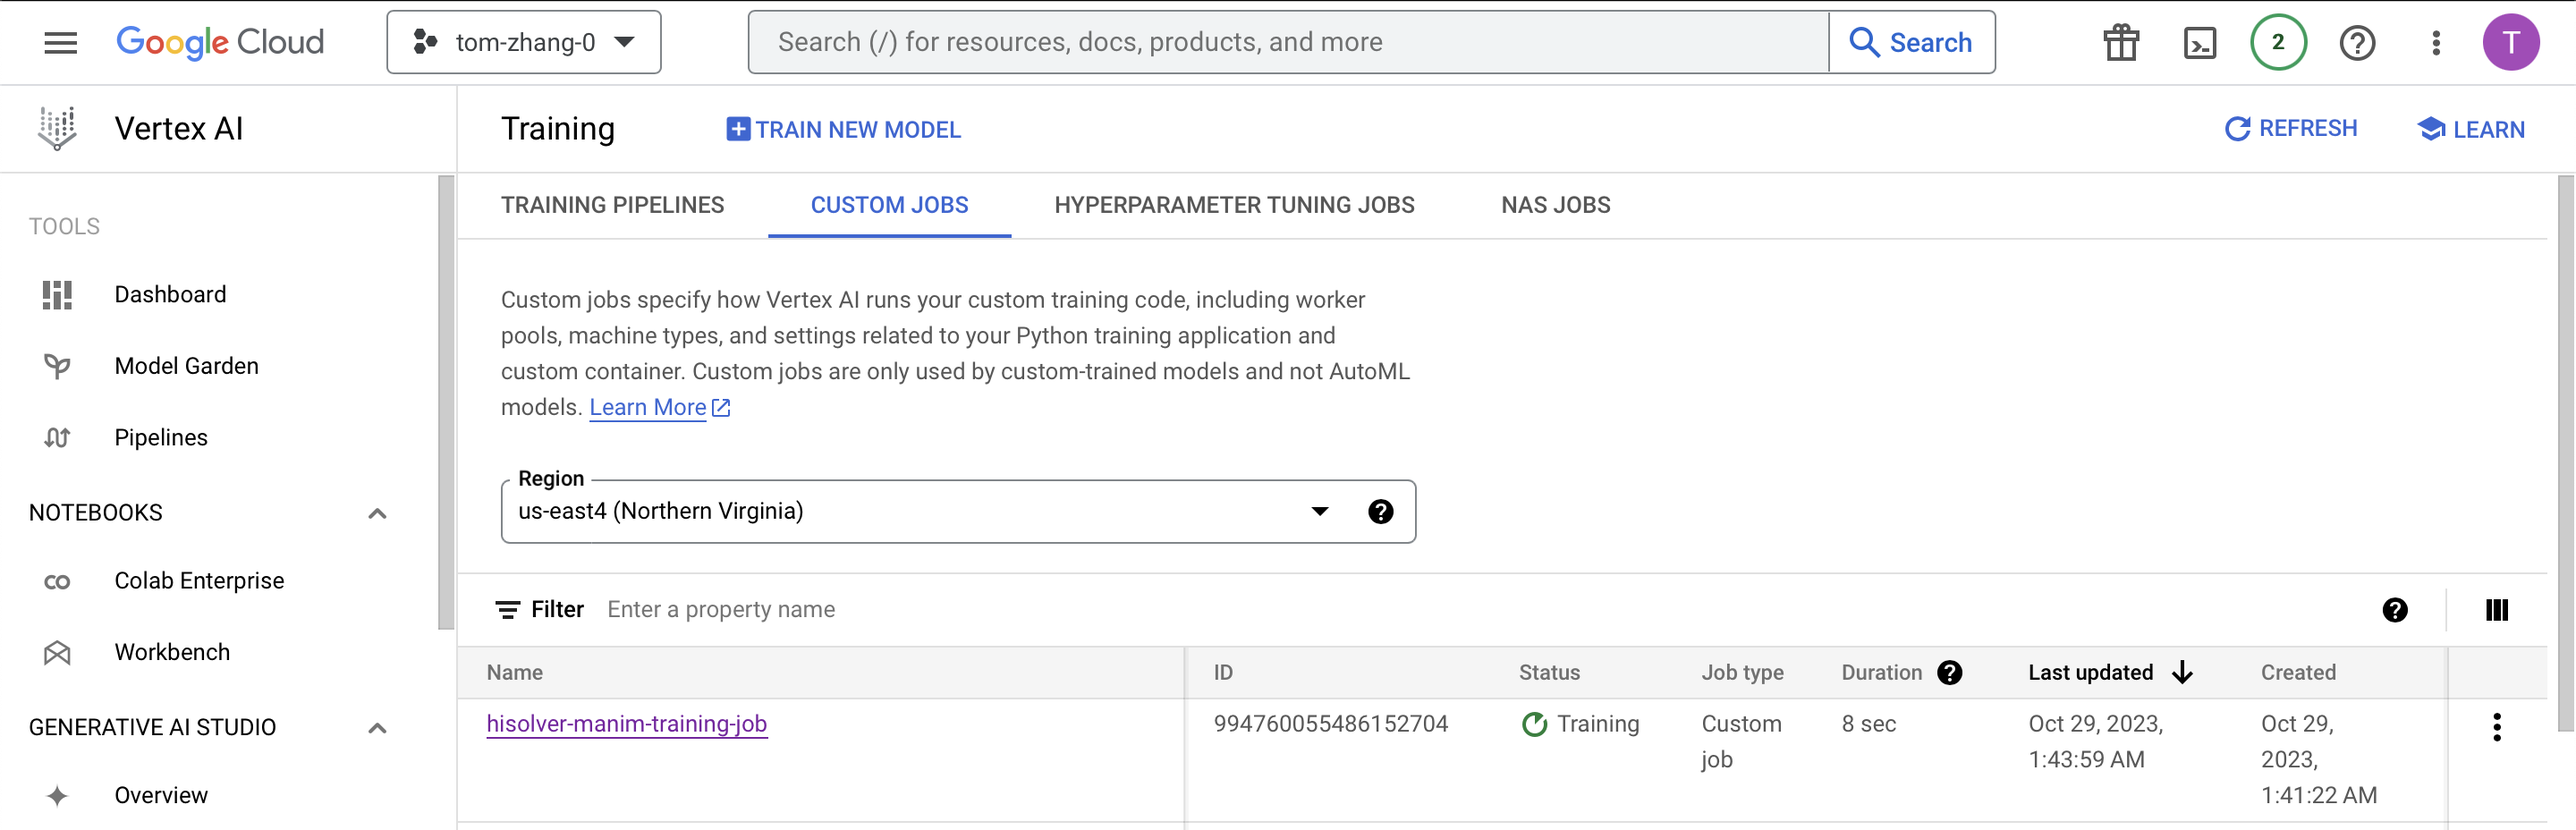
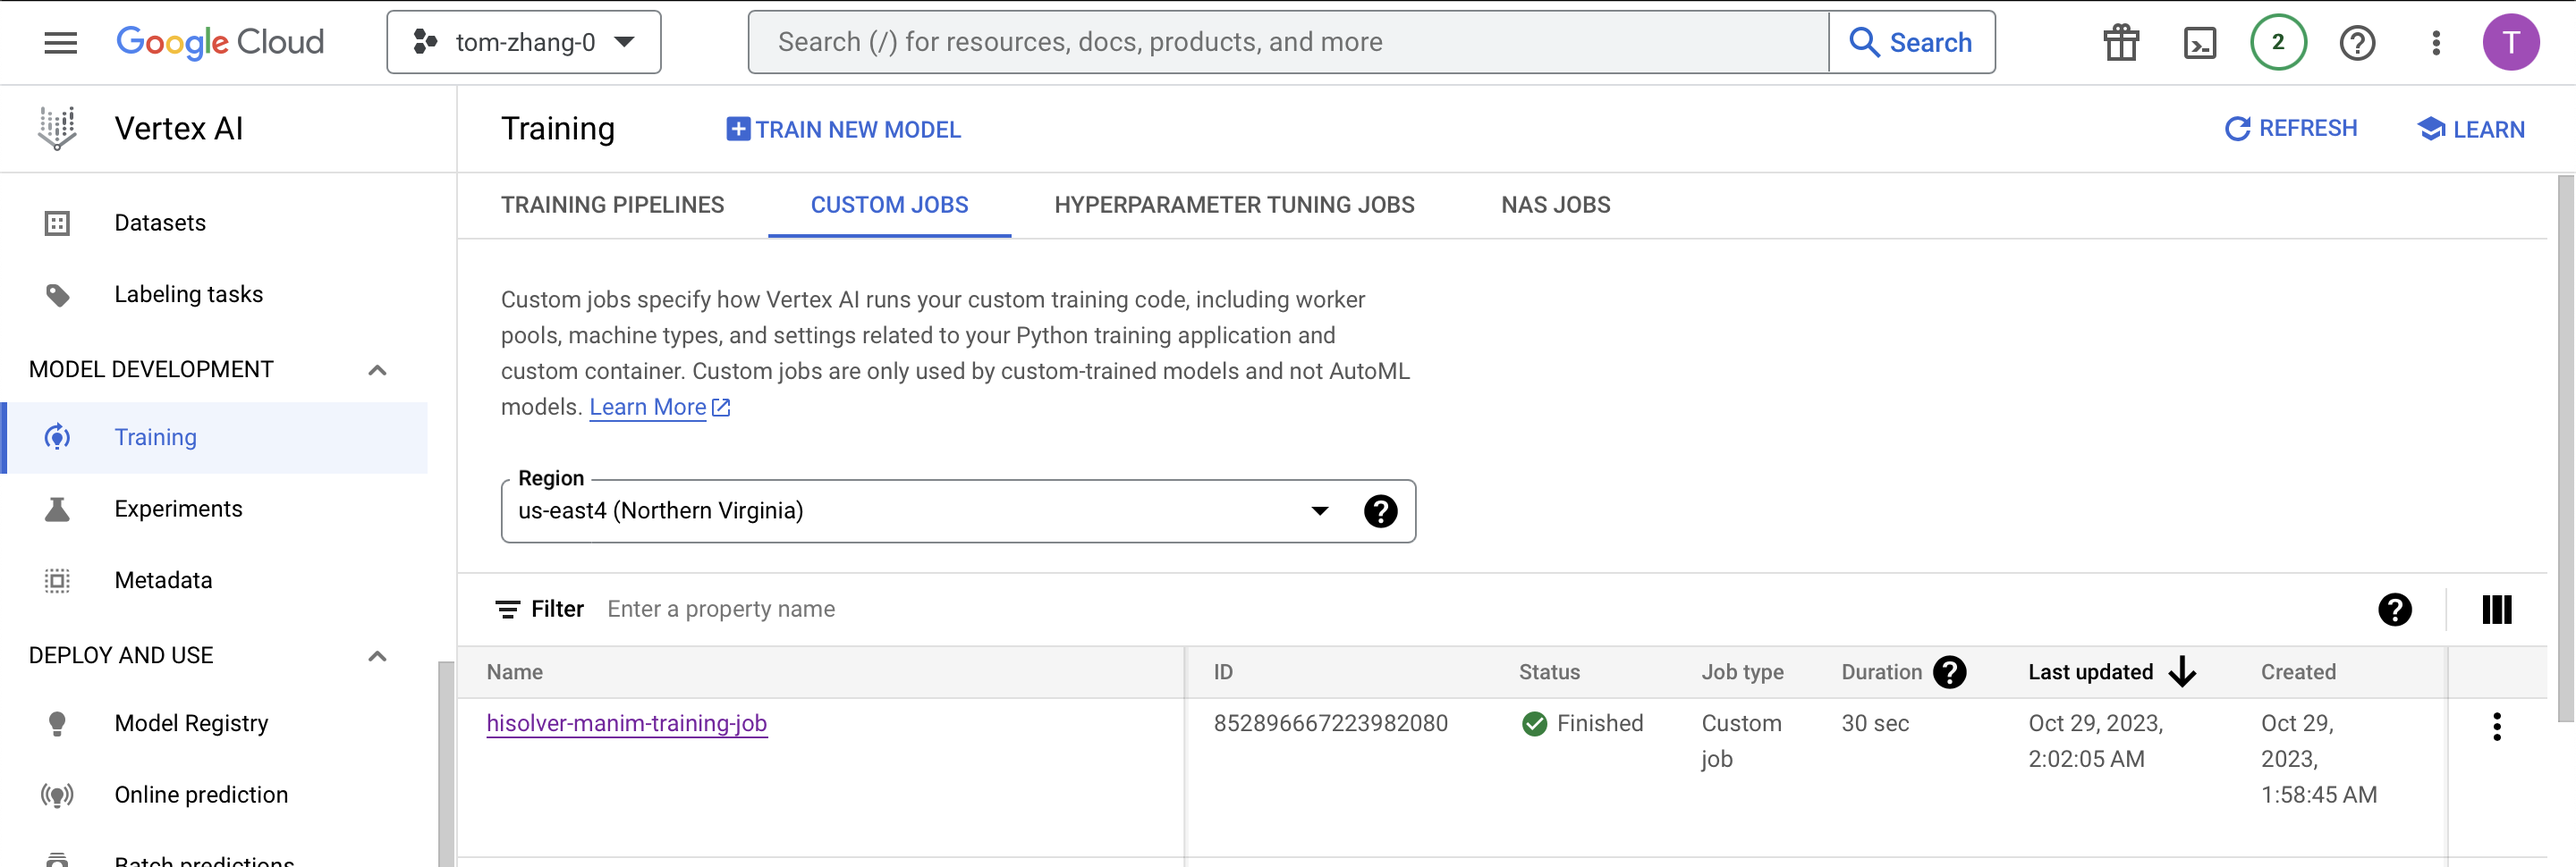
fix serverless training bug

diff --git a/src/training/train.py b/src/training/train.py
@@ -3,9 +3,6 @@ import json
 import argparse
 from datetime import datetime
 
-# a problem with the latest version of torch - cublaslib does not exist; using a previous version
-os.system('pip install "torch==2.0.0"')
-
 from google.cloud import storage
 from torch.utils.data import Dataset
 from transformers import GPT2Tokenizer, GPT2LMHeadModel, Trainer, TrainingArguments

diff --git a/src/training/README.md b/src/training/README.md
@@ -28,51 +28,17 @@ Make sure you've followed all the steps from the data pre-processing section `sr
 
 4. In `src/training/secrets/` create a file named `gcp_project_id.txt` and put the GCP Project ID that you've been using in it
 
-5. Build docker image for training:
+5. Submit custom job to Vertex AI for serverless training:
 
 ```shell
-# Remove all containers built from this image if such containers exist
-docker ps -a --filter "ancestor=hisolver-manim-training" -q | xargs docker stop && docker ps -a --filter "ancestor=hisolver-manim-training" -q | xargs docker rm
-
-# Remove image if it exists
-docker images | grep -q "hisolver-manim-training" && docker rmi hisolver-manim-training
-
-# Build docker image
-docker build -t hisolver-manim-training .
+./serverless.sh
 ```
 
-6. Tag image:
-
-```shell
-docker tag hisolver-manim-training gcr.io/$(cat secrets/gcp_project_id.txt)/hisolver-manim-training:latest
-```
-
-7. Authenticate with GCP:
-
-```shell
-gcloud auth activate-service-account --key-file secrets/data-service-account.json
-```
-
-8. Push image to container registry
-
-```shell
-gcloud auth configure-docker
-docker push gcr.io/$(cat secrets/gcp_project_id.txt)/hisolver-manim-training:latest
-```
-
-9. Submit training job to vertex ai
-
-```shell
-gcloud ai custom-jobs create \
-  --region=us-east4 \
-  --display-name=hisolver-manim-training-job \
-  --worker-pool-spec=machine-type=e2-standard-4,replica-count=1,container-image-uri=gcr.io/$(cat secrets/gcp_project_id.txt)/hisolver-manim-training:latest
-```
-
-10. To monitor training status:
+6. To monitor training status:
 
 - On the GCP console -> search for "Vertex AI" with the search bar
 - On the Vertex AI page -> look at the sidebar -> look for the "MODEL DEVELOPMENT" section -> select "Training"
 - On the Training page -> select region "us-east4" as we previously specified in the above command
 - Go to the "CUSTOM JOBS" tab
 - You should then see your job named: "hisolver-manim-training-job"
+- After the job is done running, you should see a new folder `fine_tuned_model` in your GCS bucket

diff --git a/README.md b/README.md
@@ -49,6 +49,7 @@
             |     ├── README.md
             |     ├── Dockerfile
             |     ├── run.sh
+            |     ├── serverless.sh
             |     └── train.py
             └── deployment
             │     ├── README.md
@@ -129,6 +130,8 @@ The figure below illustrates what the Label Studio UI looks like. In particular,
 See `src/training/README.md` for an in-depth description of how to set up this component of the pipeline.
 
 At this stage, we will be taking our labeled data (which are now pairs of prompts and code snippets) and use it to fine-tune a pre-trained LLM available on HuggingFace. Note that before inputting our data to a model, we would first set up a PyTorch custom data class to facilitate efficient data ingestion. This custom data class would also be used to slightly modify the structure of our labeled data so that it would satisfy the format of a pre-trained LLM. We arbitrarily chose a relatively small pre-trained model `DistilGPT2` to facilitate rapid testing. We were also able to optimize the fine-tuning process further by quantizing it. Eventually, we will be replacing the base model with a more robust one, which would consume more computing resources.
+
+The model is trained serverlessly on Vertex AI. After the job completes, the fine-tuned model is saved to our GCS bucket within the `fine_tuned_model/` directory.
 
 ![Serverless training](./assets/images/serverless-training.png)
 

diff --git a/TODO.md b/TODO.md
@@ -1,6 +1,5 @@
 # TODO
 
 - preprocessing.py is kinda slow - the last part... parhaps save locally then bulk upload?
-- secrets/dvc_remote_name.txt
-- update training_serverless
-- double check all readme's
+- make `secrets/dvc_remote_name.txt`
+- prettify `src/deployment/README.md` and `src/workflow/README.md`
